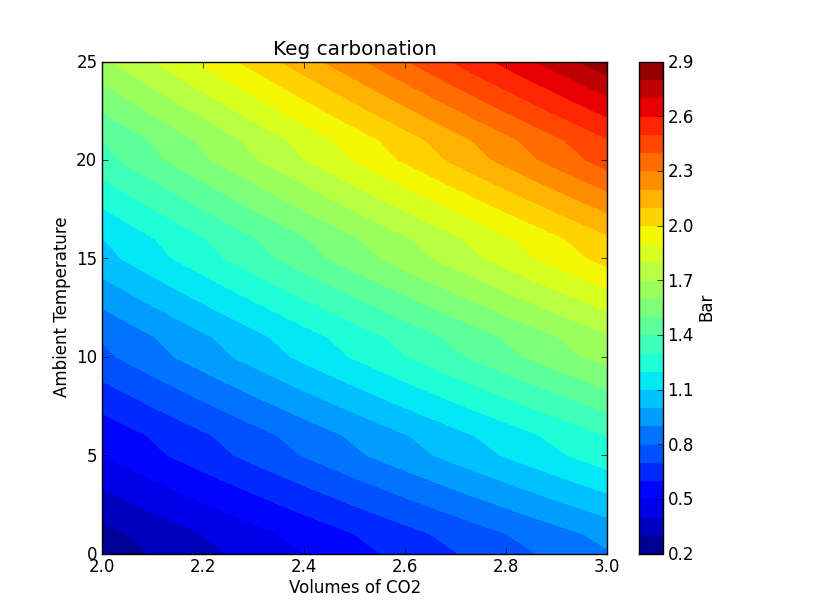
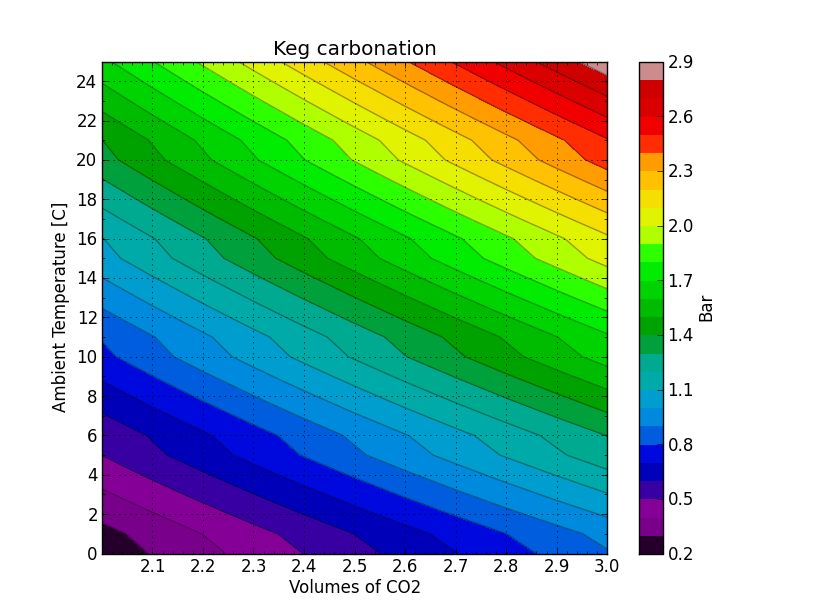
tweaked plot

diff --git a/main.py b/main.py
@@ -1,5 +1,6 @@
 import numpy as np
 import matplotlib.pyplot as pl
+from matplotlib.ticker import MultipleLocator, FormatStrFormatter
 
   
 def bar_from_temp_and_volumes(temp,volumes):
@@ -17,13 +18,26 @@ volumes = np.arange(2,3.1,0.1)
 temps = range(26)
 
 v, t = np.meshgrid(volumes, temps)
+pl.contour(v,t,bar_from_temp_and_volumes(t,v),30, colors='black', linewidth=.5, alpha=0.35)
+pl.contourf(v,t,bar_from_temp_and_volumes(t,v),30, cmap="spectral", linewidth=.5)
 
-pl.contourf(v,t,bar_from_temp_and_volumes(t,v),30)
+xmajorlocator = MultipleLocator(0.1)
+xminorlocator = MultipleLocator(0.02)
+pl.gca().xaxis.set_major_locator(xmajorlocator)
+pl.gca().xaxis.set_minor_locator(xminorlocator)
+
+ymajorlocator = MultipleLocator(2)
+yminorlocator = MultipleLocator(1)
+pl.gca().yaxis.set_major_locator(ymajorlocator)
+pl.gca().yaxis.set_minor_locator(yminorlocator)
+
+
 foo = pl.colorbar()
 foo.set_label("Bar")
-pl.ylabel("Ambient Temperature")
+pl.ylabel("Ambient Temperature [C]")
 pl.xlabel("Volumes of CO2")
 pl.title("Keg carbonation")
+pl.grid()
 pl.show()
 
 #for t in temps:

diff --git a/README.md b/README.md
@@ -4,6 +4,16 @@ KegCarb
 Calculate how many Bar needed to carbonate beer at specified volumes of CO2 under different temperatures
 
 
+British Style Ales 	1.5 - 2.0 volumes
+Belgian Ales 	1.9 - 2.4 volumes
+American Ales and Lager 	2.2 - 2.7 volumes
+Fruit Lambic 	3.0 - 4.5 volumes
+Porter, Stout 	1.7 - 2.3 volumes
+European Lagers 	2.2 - 2.7 volumes
+Lambic 	2.4 - 2.8 volumes
+German Wheat Beer 	3.3 - 4.5 volumes
+
+
 ![ScreenShot](keg_carbonation_temp_vs_volumes_of_co2.png)
 
                       
